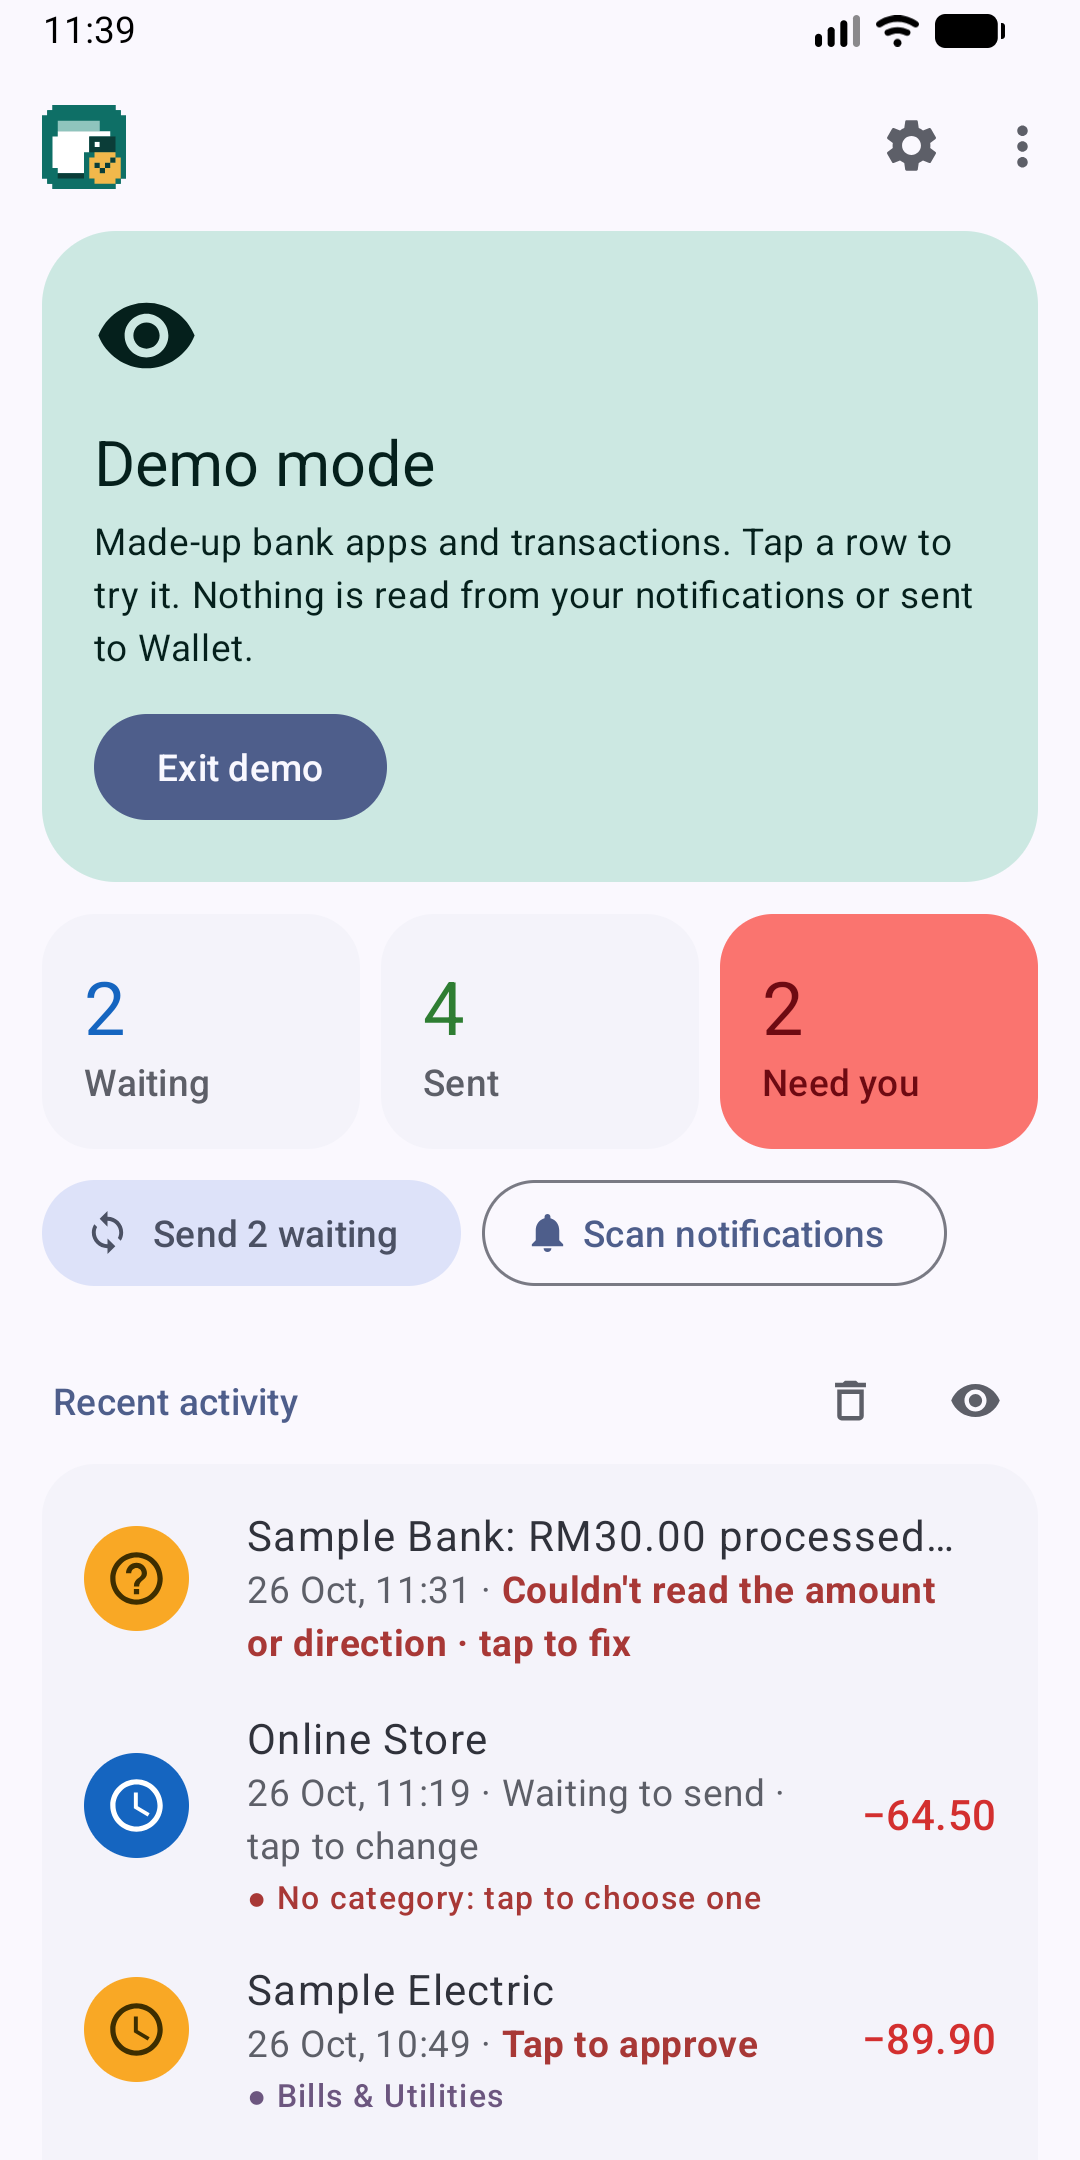
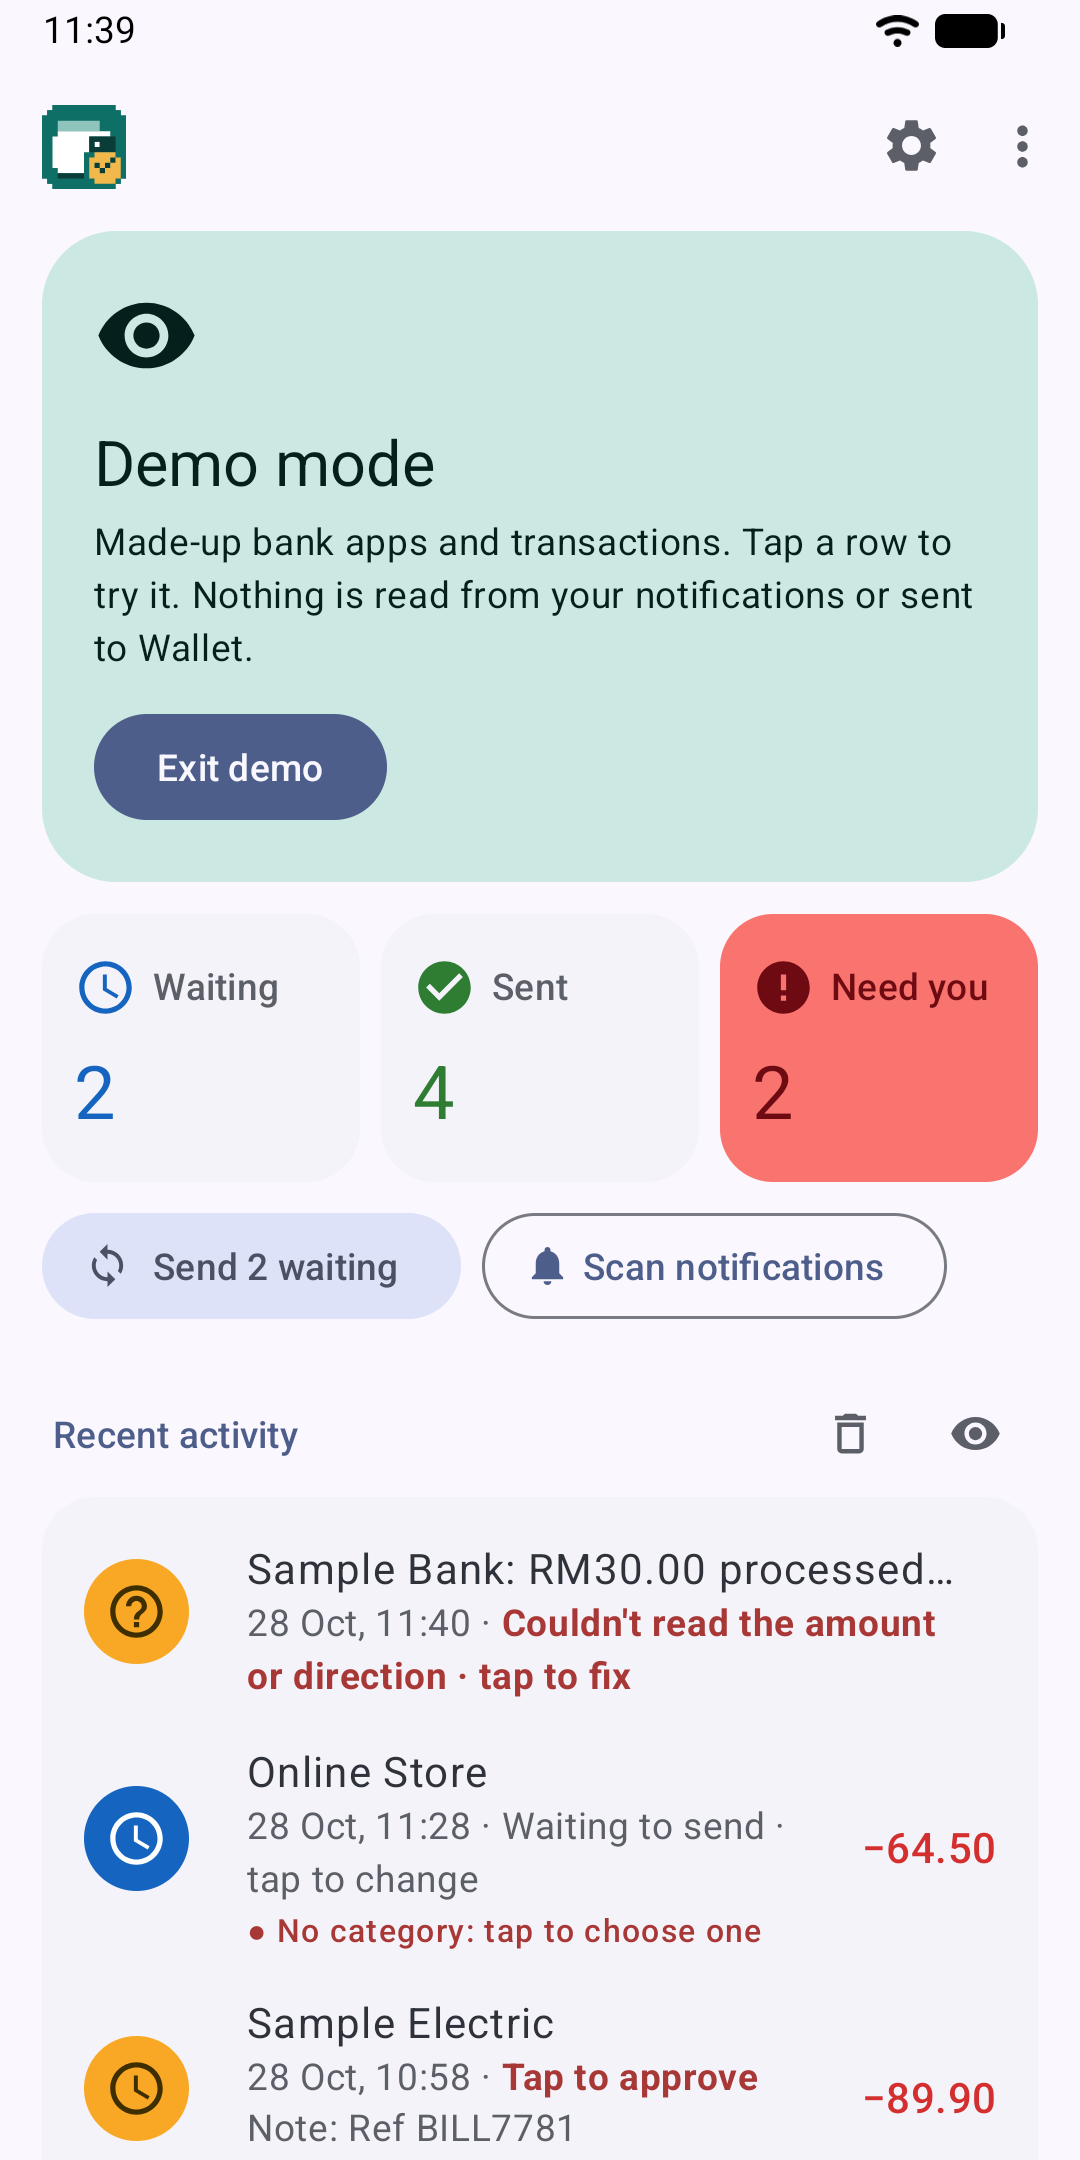
docs(build): replace the play screenshots with 1.5 ones
Five demo-mode shots: home, record details, approve, fix and dark home.

diff --git a/store/LISTING.md b/store/LISTING.md
@@ -96,17 +96,19 @@ The app needs a BudgetBakers Wallet Premium API token and a bank app's notificat
 - The battery exemption isn't requested; the user sets "Unrestricted" on the app's settings page if they choose to.
 
 ## Screenshots
-Use demo mode only, never real transactions. On the phone: ⋮ › **Try with demo data**, then take screenshots (power + volume down) of, for example:
-1. The home screen (demo hero card, counts and recent activity)
-2. A waiting record opened (tap "City Ride" or "Sample Electric")
-3. The "not understood" alert opened (tap the "Sample Bank: RM30.00" row)
-4. Settings
-Play needs 2 to 8 phone screenshots, PNG or JPEG, sides between 320 and 3840 px, the long side no more than twice the short side. Phone screenshots are usually 1080×2400, which is over 2:1, so crop them to 1080×2160 (or a 9:16 crop) before uploading.
+Use demo mode only, never real transactions. The ones in `screenshots/` (1.5, taken on the emulator with a clean status bar) are, in upload order:
+1. `1-home.png`: the home screen (demo hero card, counts and recent activity)
+2. `2-details.png`: "Sample Electric" tapped, the record details
+3. `3-approve.png`: its Review button, the "Send to Wallet?" dialog
+4. `4-not-understood.png`: the "Sample Bank: RM30.00" row's Fix button, the "Enter this transaction" dialog
+5. `5-dark.png`: the home screen in dark mode
+
+To retake them: ⋮ › **Try with demo data**, then screenshot each (power + volume down). Play needs 2 to 8 phone screenshots, PNG or JPEG, sides between 320 and 3840 px, the long side no more than twice the short side. Phone screenshots are usually 1080×2400, which is over 2:1, so crop them to 1080×2160 (or a 9:16 crop) before uploading.
 
 ## Release
 1. Build the bundle: `.\gradlew.bat bundleRelease` (with `keystore.properties` in place), output `app/build/outputs/bundle/release/app-release.aab`.
 2. First upload: **Test and release › Testing › Closed testing**, create a track, add testers, upload the `.aab`, add release notes (the latest `Changelog` entry), roll out.
-3. Release notes for 1.5 (Play's limit is 500 characters):
+3. Release notes for 1.5.1, which is what goes to Play (1.5 was never uploaded; Play's limit is 500 characters):
 
 ```
 • Touch 'n Go Cash ins to GO+ become a Wallet transfer
@@ -115,6 +117,7 @@ Play needs 2 to 8 phone screenshots, PNG or JPEG, sides between 320 and 3840 px,
 • Payees go in Wallet's payee field
 • ShopeePay alerts are read and more ads skipped
 • Fixed transfers getting stuck waiting for approval
+• Fixed an unread alert's amount showing as −0.00
 ```
 
 4. Personal developer accounts need 12 testers opted in for 14 days in a row before **Production** can be applied for.
